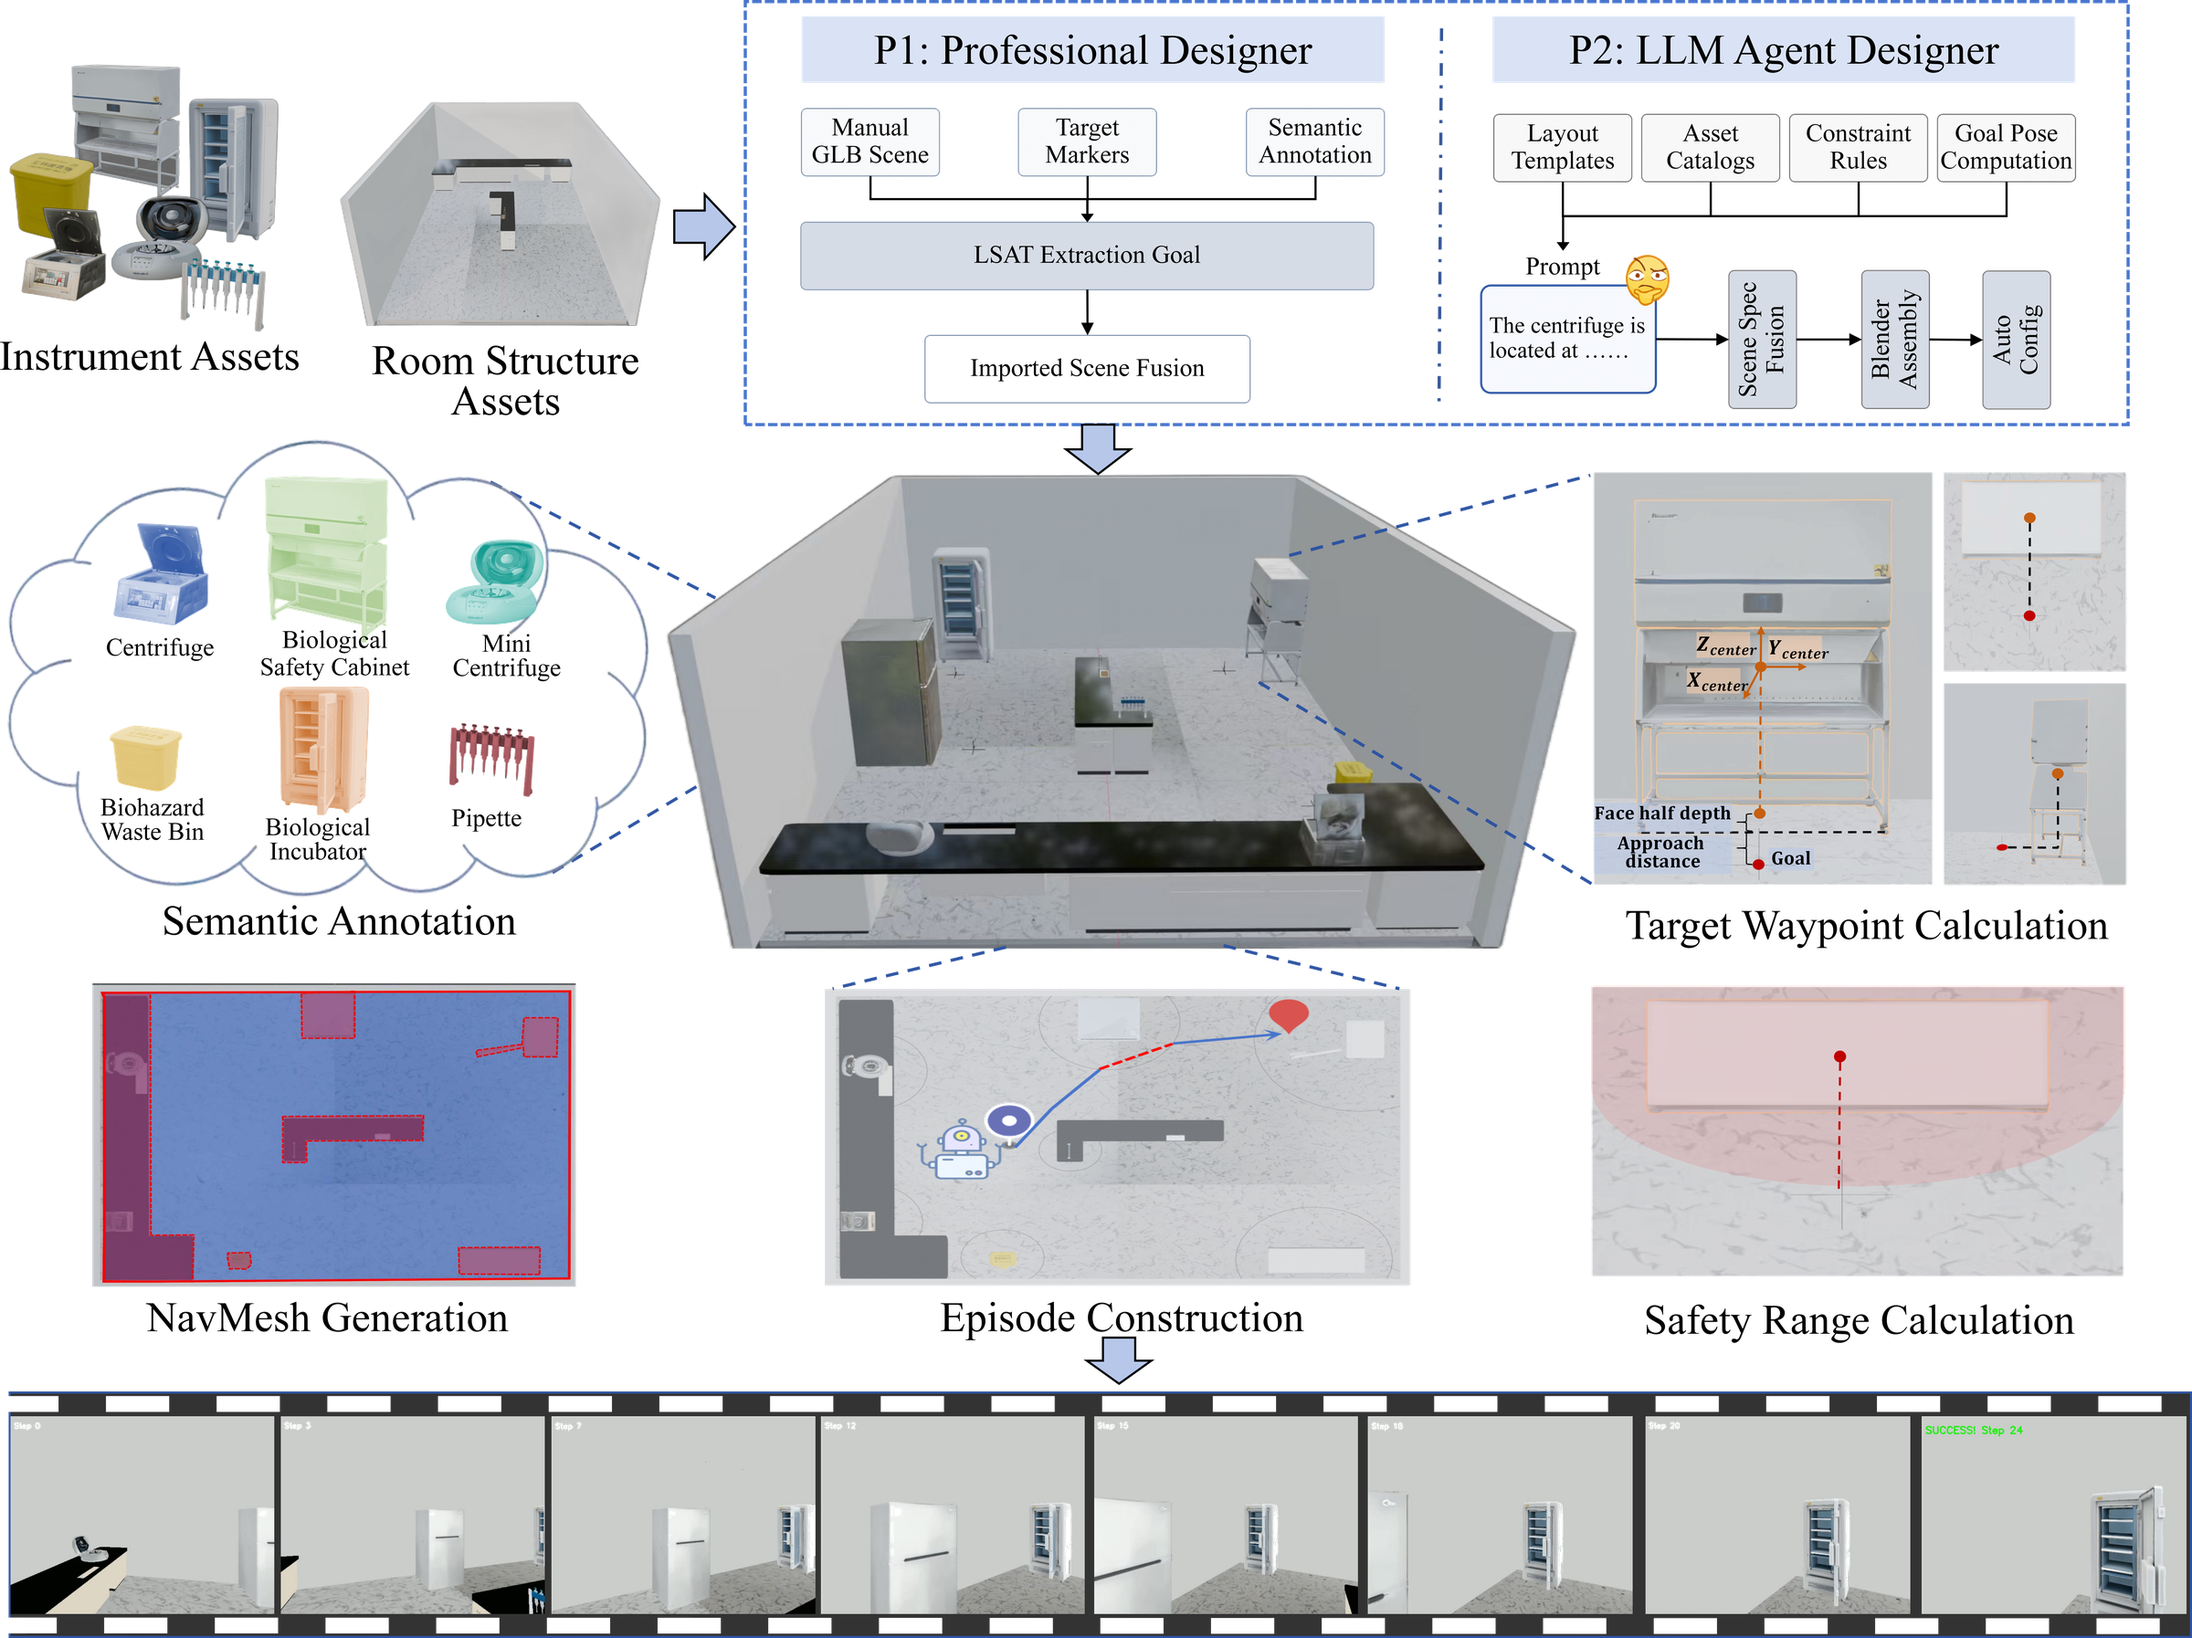
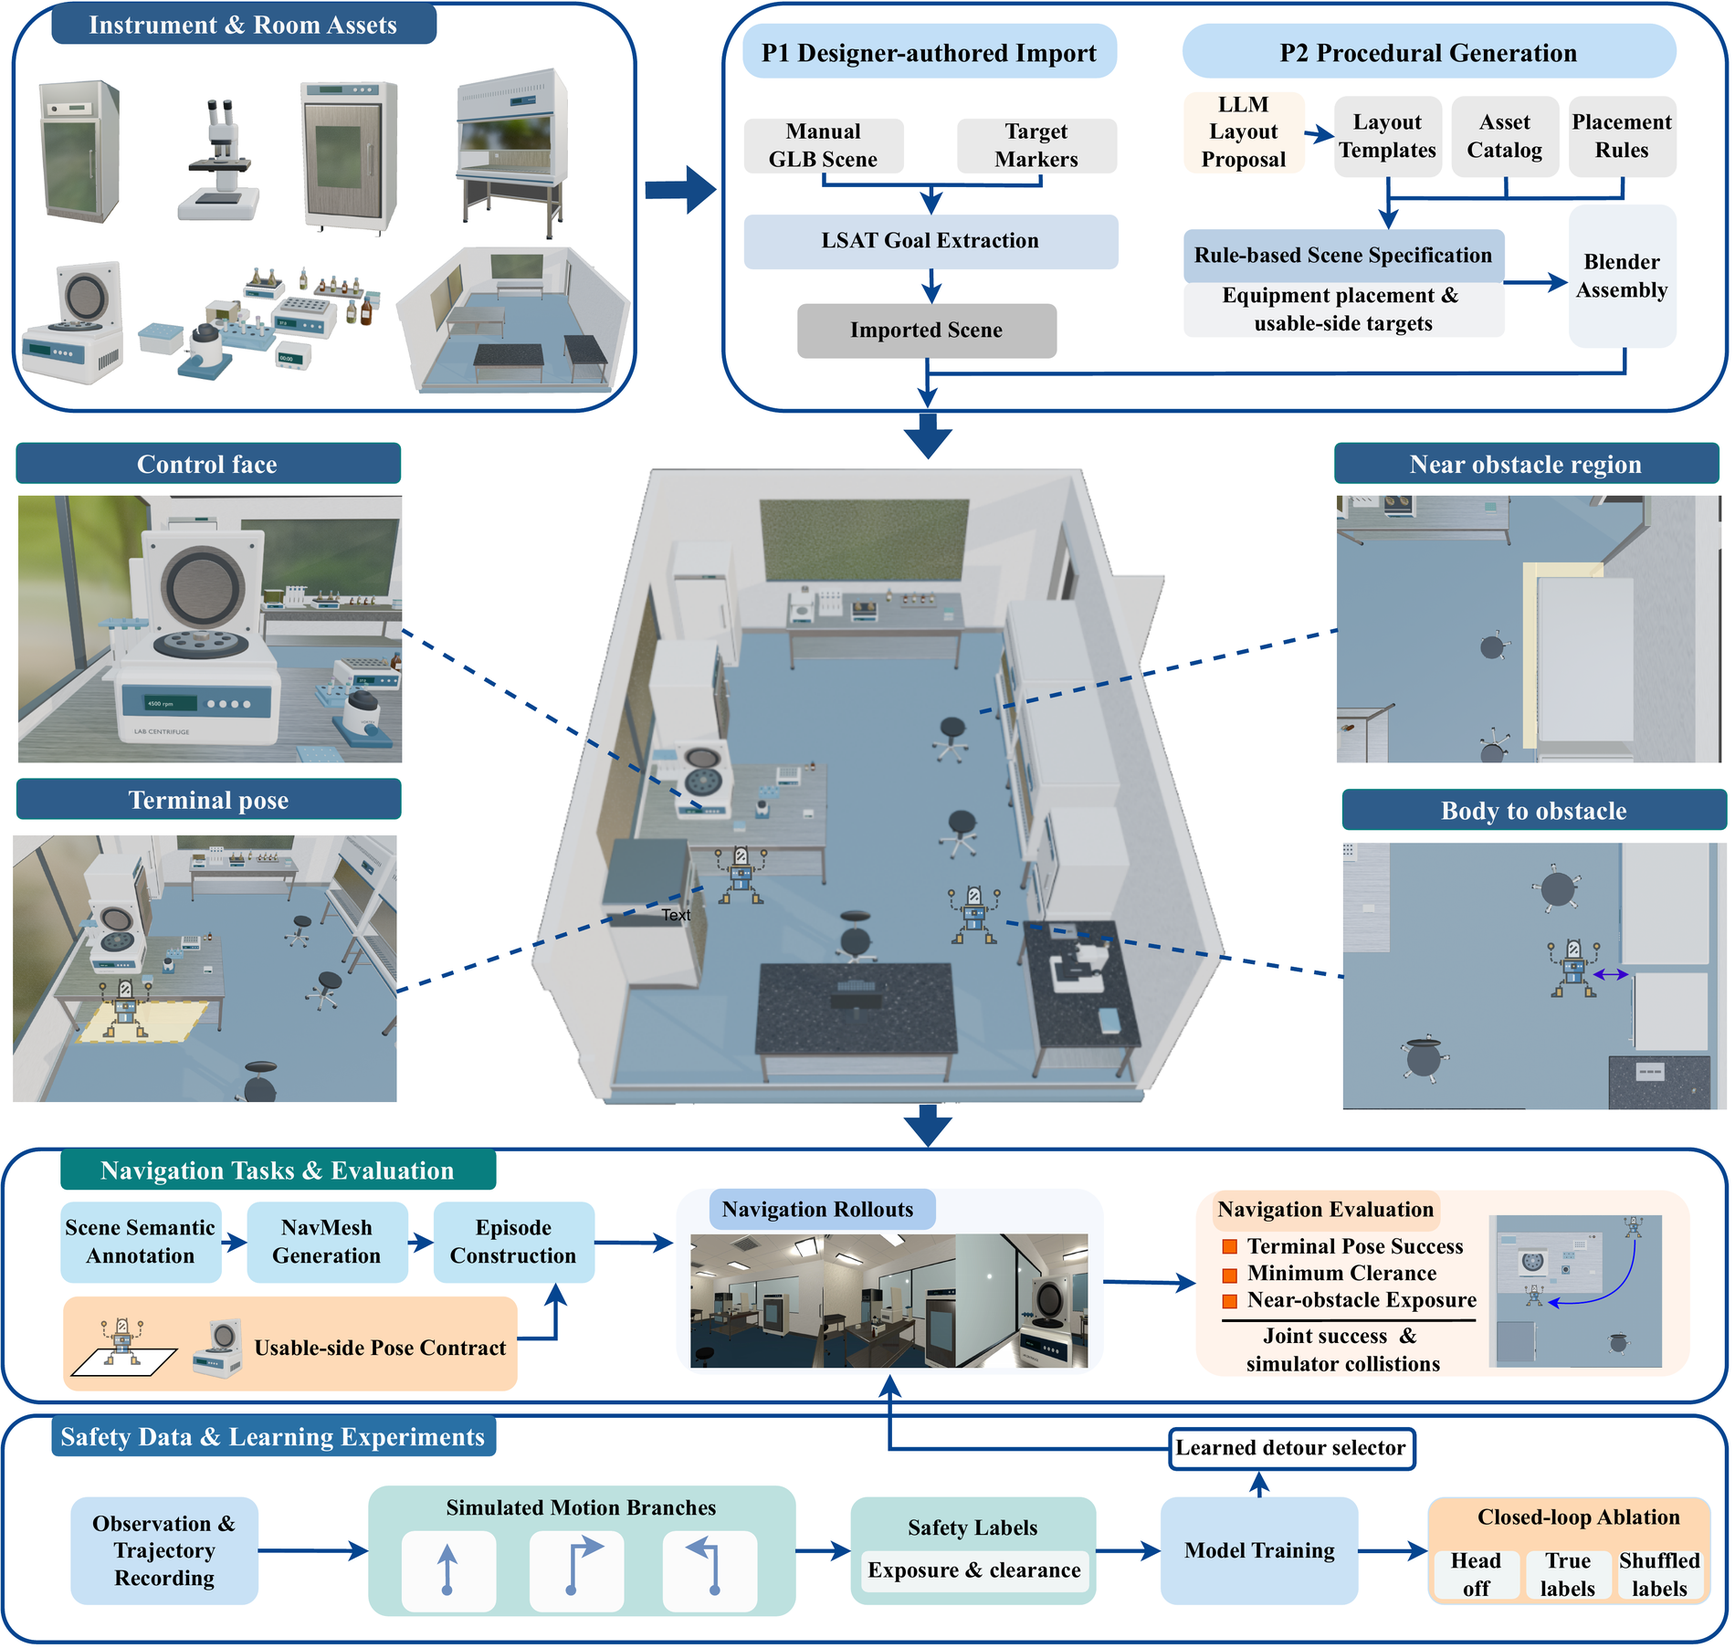
Update the figures to the current versions
Replaces the four rendered panels with the current 300 dpi versions (the real-world panel at 600 dpi) and rewrites the figure notes: platform architecture, route-level safety quantities, usable-side navigation with the terminal-pose contract, and the real-world run.

diff --git a/figures/README.md b/figures/README.md
@@ -1,54 +1,56 @@
-# BioVLN Paper Figures
+# BioVLN Figures
 
-> All 4 figures from the BioVLN paper, hosted on GitHub for direct inline viewing.
+> The four figures that illustrate the platform, rendered at 300 dpi (the real-world panel at 600 dpi) for inline viewing.
 
 ---
 
-## Fig 1: Platform Architecture
+## Fig 1 — Platform Architecture
 
 ![Platform Architecture](https://raw.githubusercontent.com/ActiveButterflies/BioVLN/master/figures/fig4.png)
 
-The BioVLN platform architecture.
-- **P1 (left):** User-authored scene import (Path B) — manually built GLB scenes annotated via LSAT are processed.
-- **P2 (right):** Procedural generation (Path A) — instrument catalogs and layout templates drive automated construction.
-- Both paths converge into a shared benchmark pipeline with six-method evaluation and safety metrics (MCR, VRT).
+Instruments and room assets feed two scene-construction paths that converge on one benchmark pipeline.
+- **Left (Path B):** designer-authored GLB scenes, annotated through the LSAT goal extractor.
+- **Right (Path A):** procedural generation from the instrument catalog and layout templates.
+- Both paths emit the same artefacts: an annotated scene GLB, a Recast navigation mesh and episode definitions, consumed by the evaluator and the baseline runners.
 
 ---
 
-## Fig 2: Operational-Face Goal Navigation
+## Fig 2 — Route-Level Safety Quantities
 
-![Three-Zone Model](https://raw.githubusercontent.com/ActiveButterflies/BioVLN/master/figures/fig1.png)
+![Route-Level Safety](https://raw.githubusercontent.com/ActiveButterflies/BioVLN/master/figures/fig0.png)
 
-- **Left:** Blue solid line = correct navigation to the operational face (red point); red dashed line = incorrect (reaches incubator but not its operational surface).
-- **Right:** Top-down view of the operational face.
-
----
-
-## Fig 3: Scene-Level Operational-Face Goal Positions
-
-![Scene Goals](https://raw.githubusercontent.com/ActiveButterflies/BioVLN/master/figures/fig3.png)
-
-- **Left:** Oblique overview of goal endpoints in a single-room laboratory scene.
-- **Right:** Top-down visualization per instrument, with each goal position as a colored endpoint.
+- **Minimum clearance** is the smallest body-to-obstacle distance on the route: a single close approach sets the episode value even when the terminal pose is fine.
+- **Near-obstacle exposure** aggregates the same quantity over the steps that matter, so a run can be safe on arrival and still spend time inside the margin.
+- These are scored separately from terminal success, which is why two controllers that reach a valid pose equally often can differ markedly on joint success.
 
 ---
 
-## Fig 4: Safety Boundary Visualization
+## Fig 3 — Usable-Side Navigation and the Terminal-Pose Contract
 
-![Safety](https://raw.githubusercontent.com/ActiveButterflies/BioVLN/master/figures/fig0.png)
+![Terminal-Pose Contract](https://raw.githubusercontent.com/ActiveButterflies/BioVLN/master/figures/fig1.png)
 
-- **Red dashed path:** Navigation trajectory violating instrument safety boundaries (enters clearance zone).
-- **Blue solid path:** Safe navigation trajectory maintaining clearance.
+Using a centrifuge as the example:
+- **(a)** The usable-side approach follows the control face, while another side reaches comparable proximity without an admissible terminal pose.
+- **(b)** The base centre must lie inside the position region on the usable side, the heading within tolerance of the outward control-face normal (30° by default), and the 0.18 m footprint must clear the surrounding furniture.
+- Two failures are marked: a centre outside the region, and a correct position pointing away from the control face.
 
-This figure illustrates the MCR (Minimum Clearance Radius) and VRT (Violation Rate at Threshold) safety metrics derived from the three-zone operational envelope model.
+The contract is implemented in `geometry/operational_pose_v3.py`.
+
+---
+
+## Fig 4 — Real-World Navigation
+
+![Real-World Navigation](https://raw.githubusercontent.com/ActiveButterflies/BioVLN/master/figures/fig3.png)
+
+The same trial in four stages — search, find, approach, arrival — recorded twice: (a) from an external third-person camera with the base in frame, and (b) from the robot's own first-person camera. Boxes mark the detector output along the run; the arrow gives the direction of travel.
 
 ---
 
 ## File Index
 
-| File | Paper Fig | Section | Description |
-|------|-----------|---------|-------------|
-| `fig4.png` | Fig. 1 | Introduction | Platform architecture (dual-entry pipeline) |
-| `fig1.png` | Fig. 2 | Problem Formulation | Operational-face goal navigation + three-zone model |
-| `fig3.png` | Fig. 3 | Scene Generation | Scene-level operational-face goal positions |
-| `fig0.png` | Fig. 4 | Safety Analysis | Safety boundary visualization (MCR/VRT) |
+| File | Figure | Used in |
+|------|--------|---------|
+| `fig4.png` | Platform architecture | README overview |
+| `fig0.png` | Route-level safety quantities | README, evaluation metrics |
+| `fig1.png` | Usable-side navigation / terminal-pose contract | README, operating-pose contract |
+| `fig3.png` | Real-world navigation | README, physical-robot demonstration |

diff --git a/README.md b/README.md
@@ -246,7 +246,7 @@ Zone 2 hazard threshold: <0.5 m indicates a safety violation (equivalent to ente
 
 ![Three-Zone Model](https://raw.githubusercontent.com/ActiveButterflies/BioVLN/master/figures/fig1.png)
 
-*Figure 2: Operational-face goal navigation. Left: blue solid = correct navigation to the operational face (red point); red dashed = incorrect (reaches incubator but not its operational surface). Right: top-down view of the operational face.*
+*Figure 2: Usable-side navigation for a centrifuge. (a) The usable-side approach follows the control face, while another side reaches comparable proximity without an admissible terminal pose. (b) The base centre must lie inside the position region on the usable side, the heading within tolerance of the outward control-face normal, and the 0.18 m footprint must clear the surrounding furniture. Two failures are marked: a centre outside the region, and a correct position pointing away from the control face.*
 
 - **Zone 1 (Physical Bounding Box):** Each instrument occupies an axis-aligned bounding box. Wall instruments contact the wall on one face; table-top instruments rest on measured furniture surfaces.
 - **Zone 2 (Collision Clearance):** 0.25 m buffer on all four horizontal sides; overlap prohibited during scene generation, guaranteeing navigable gaps $\ge$ 0.5 m.
